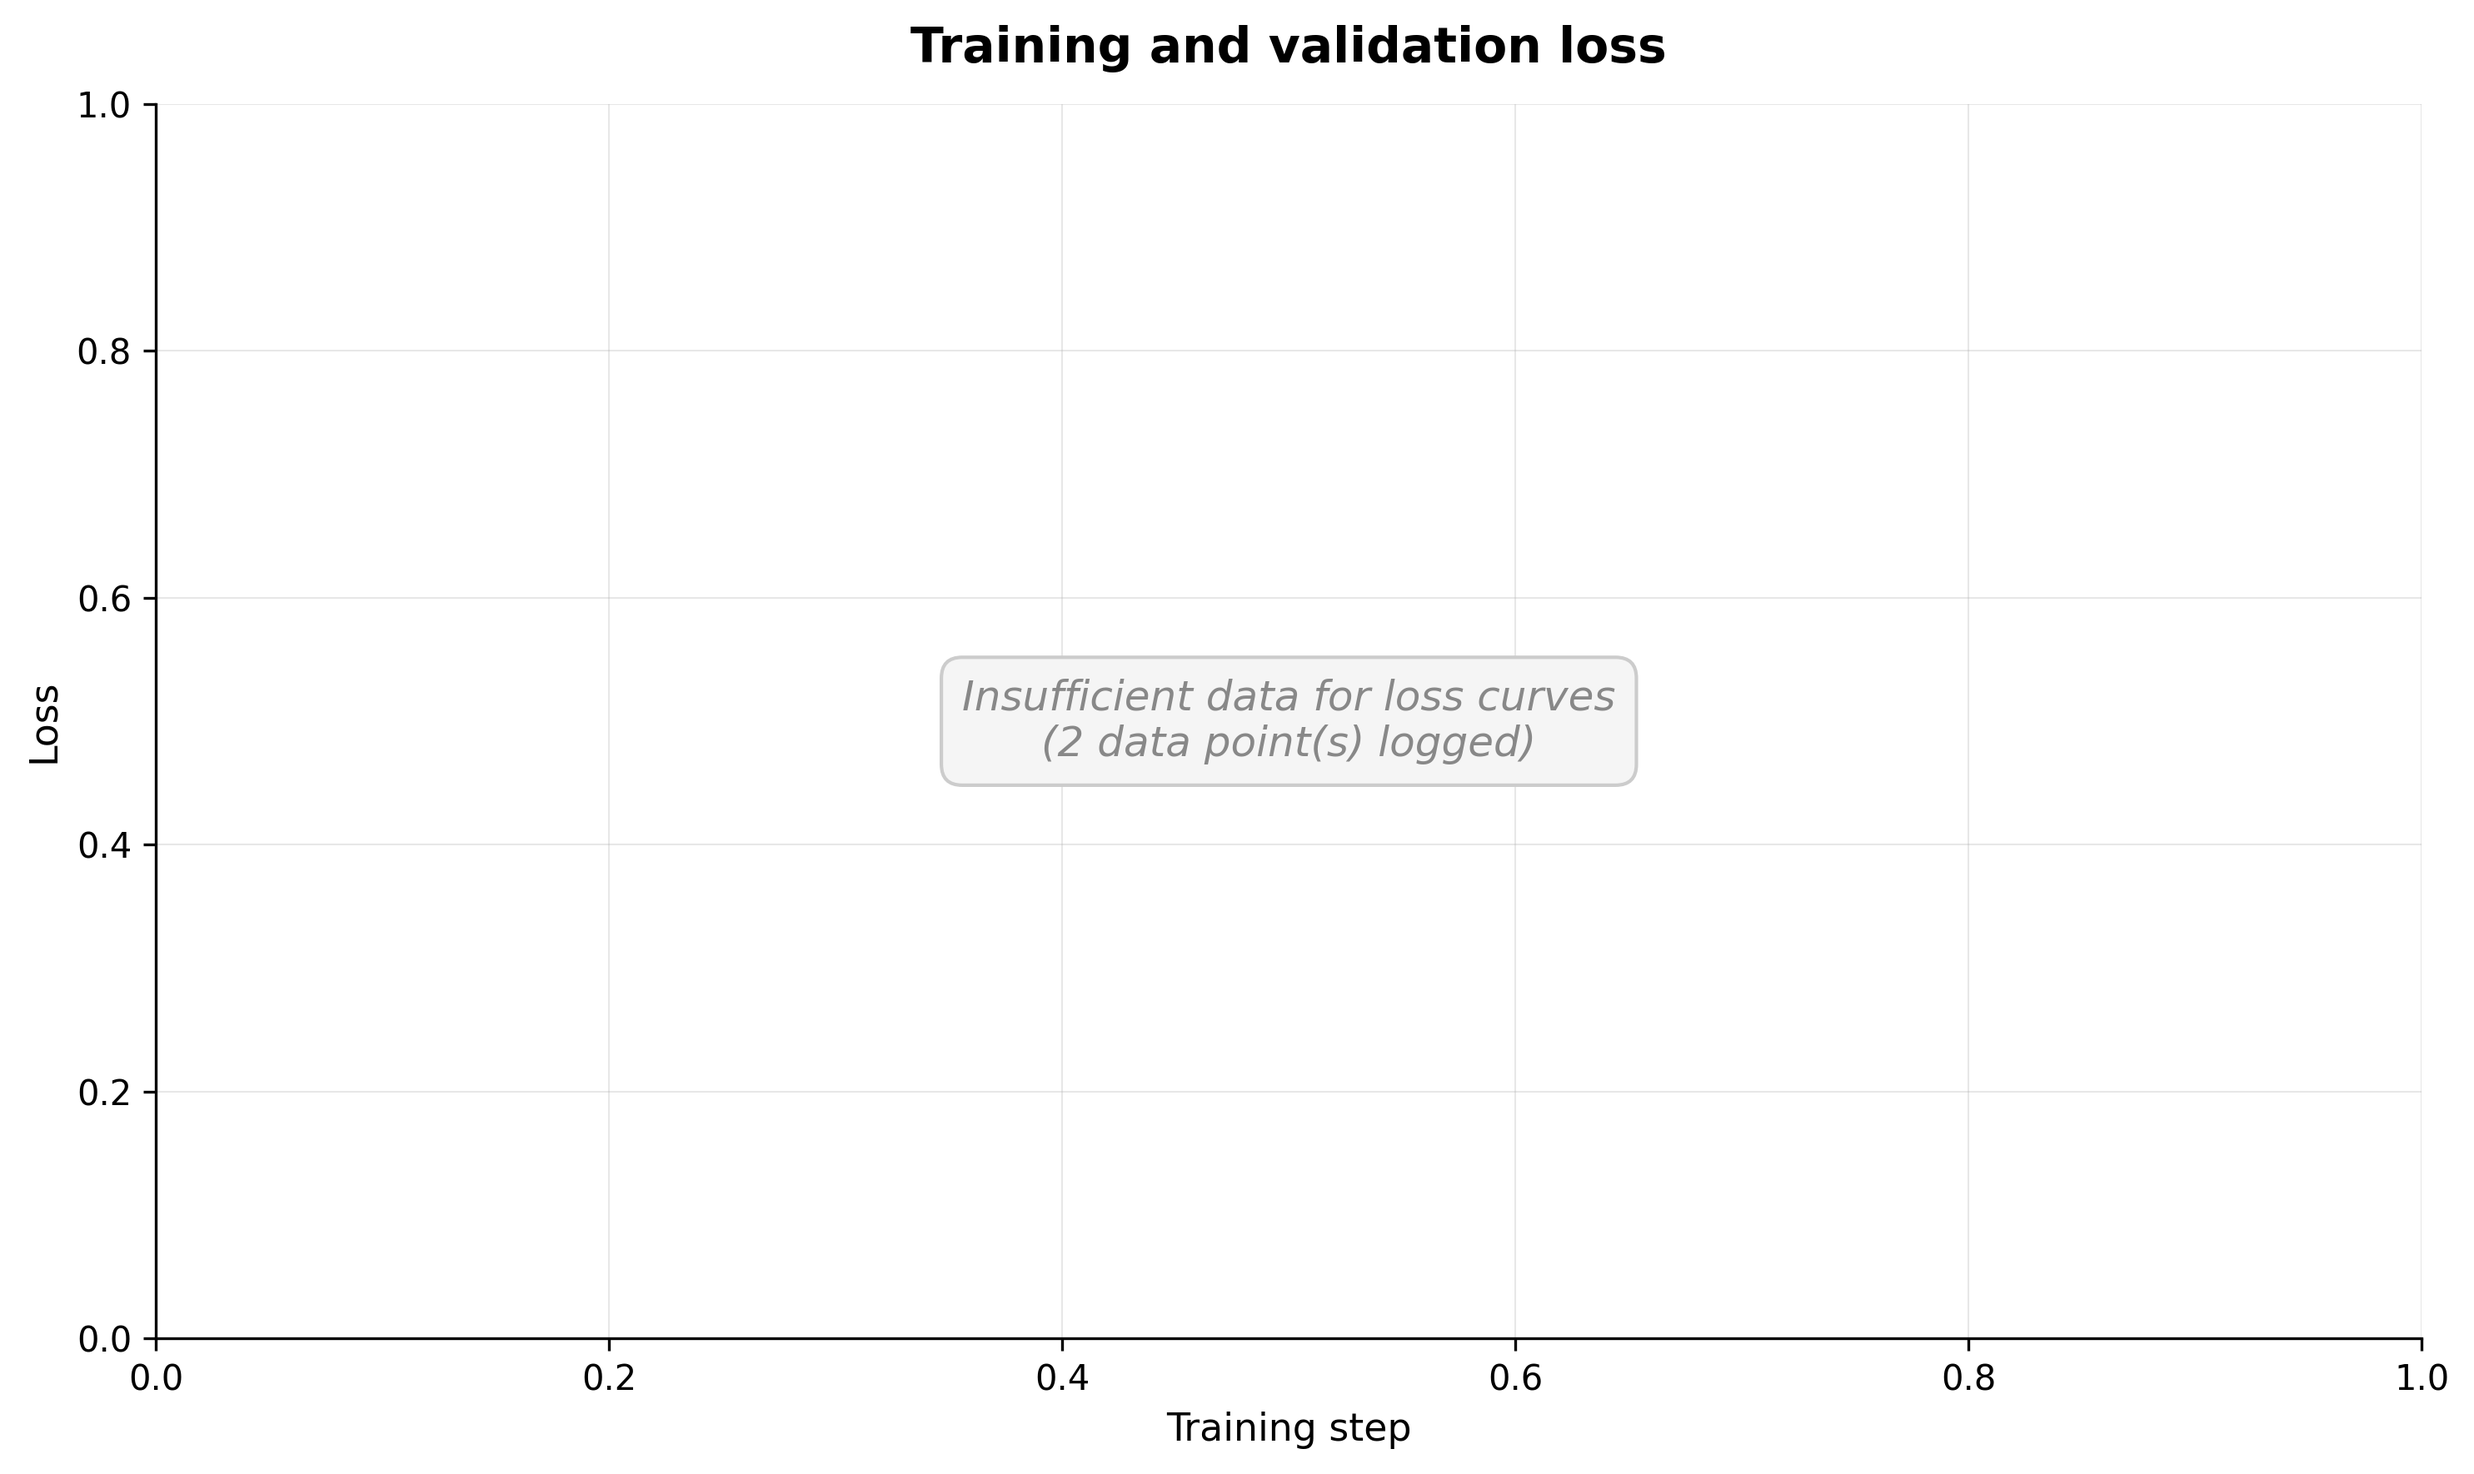
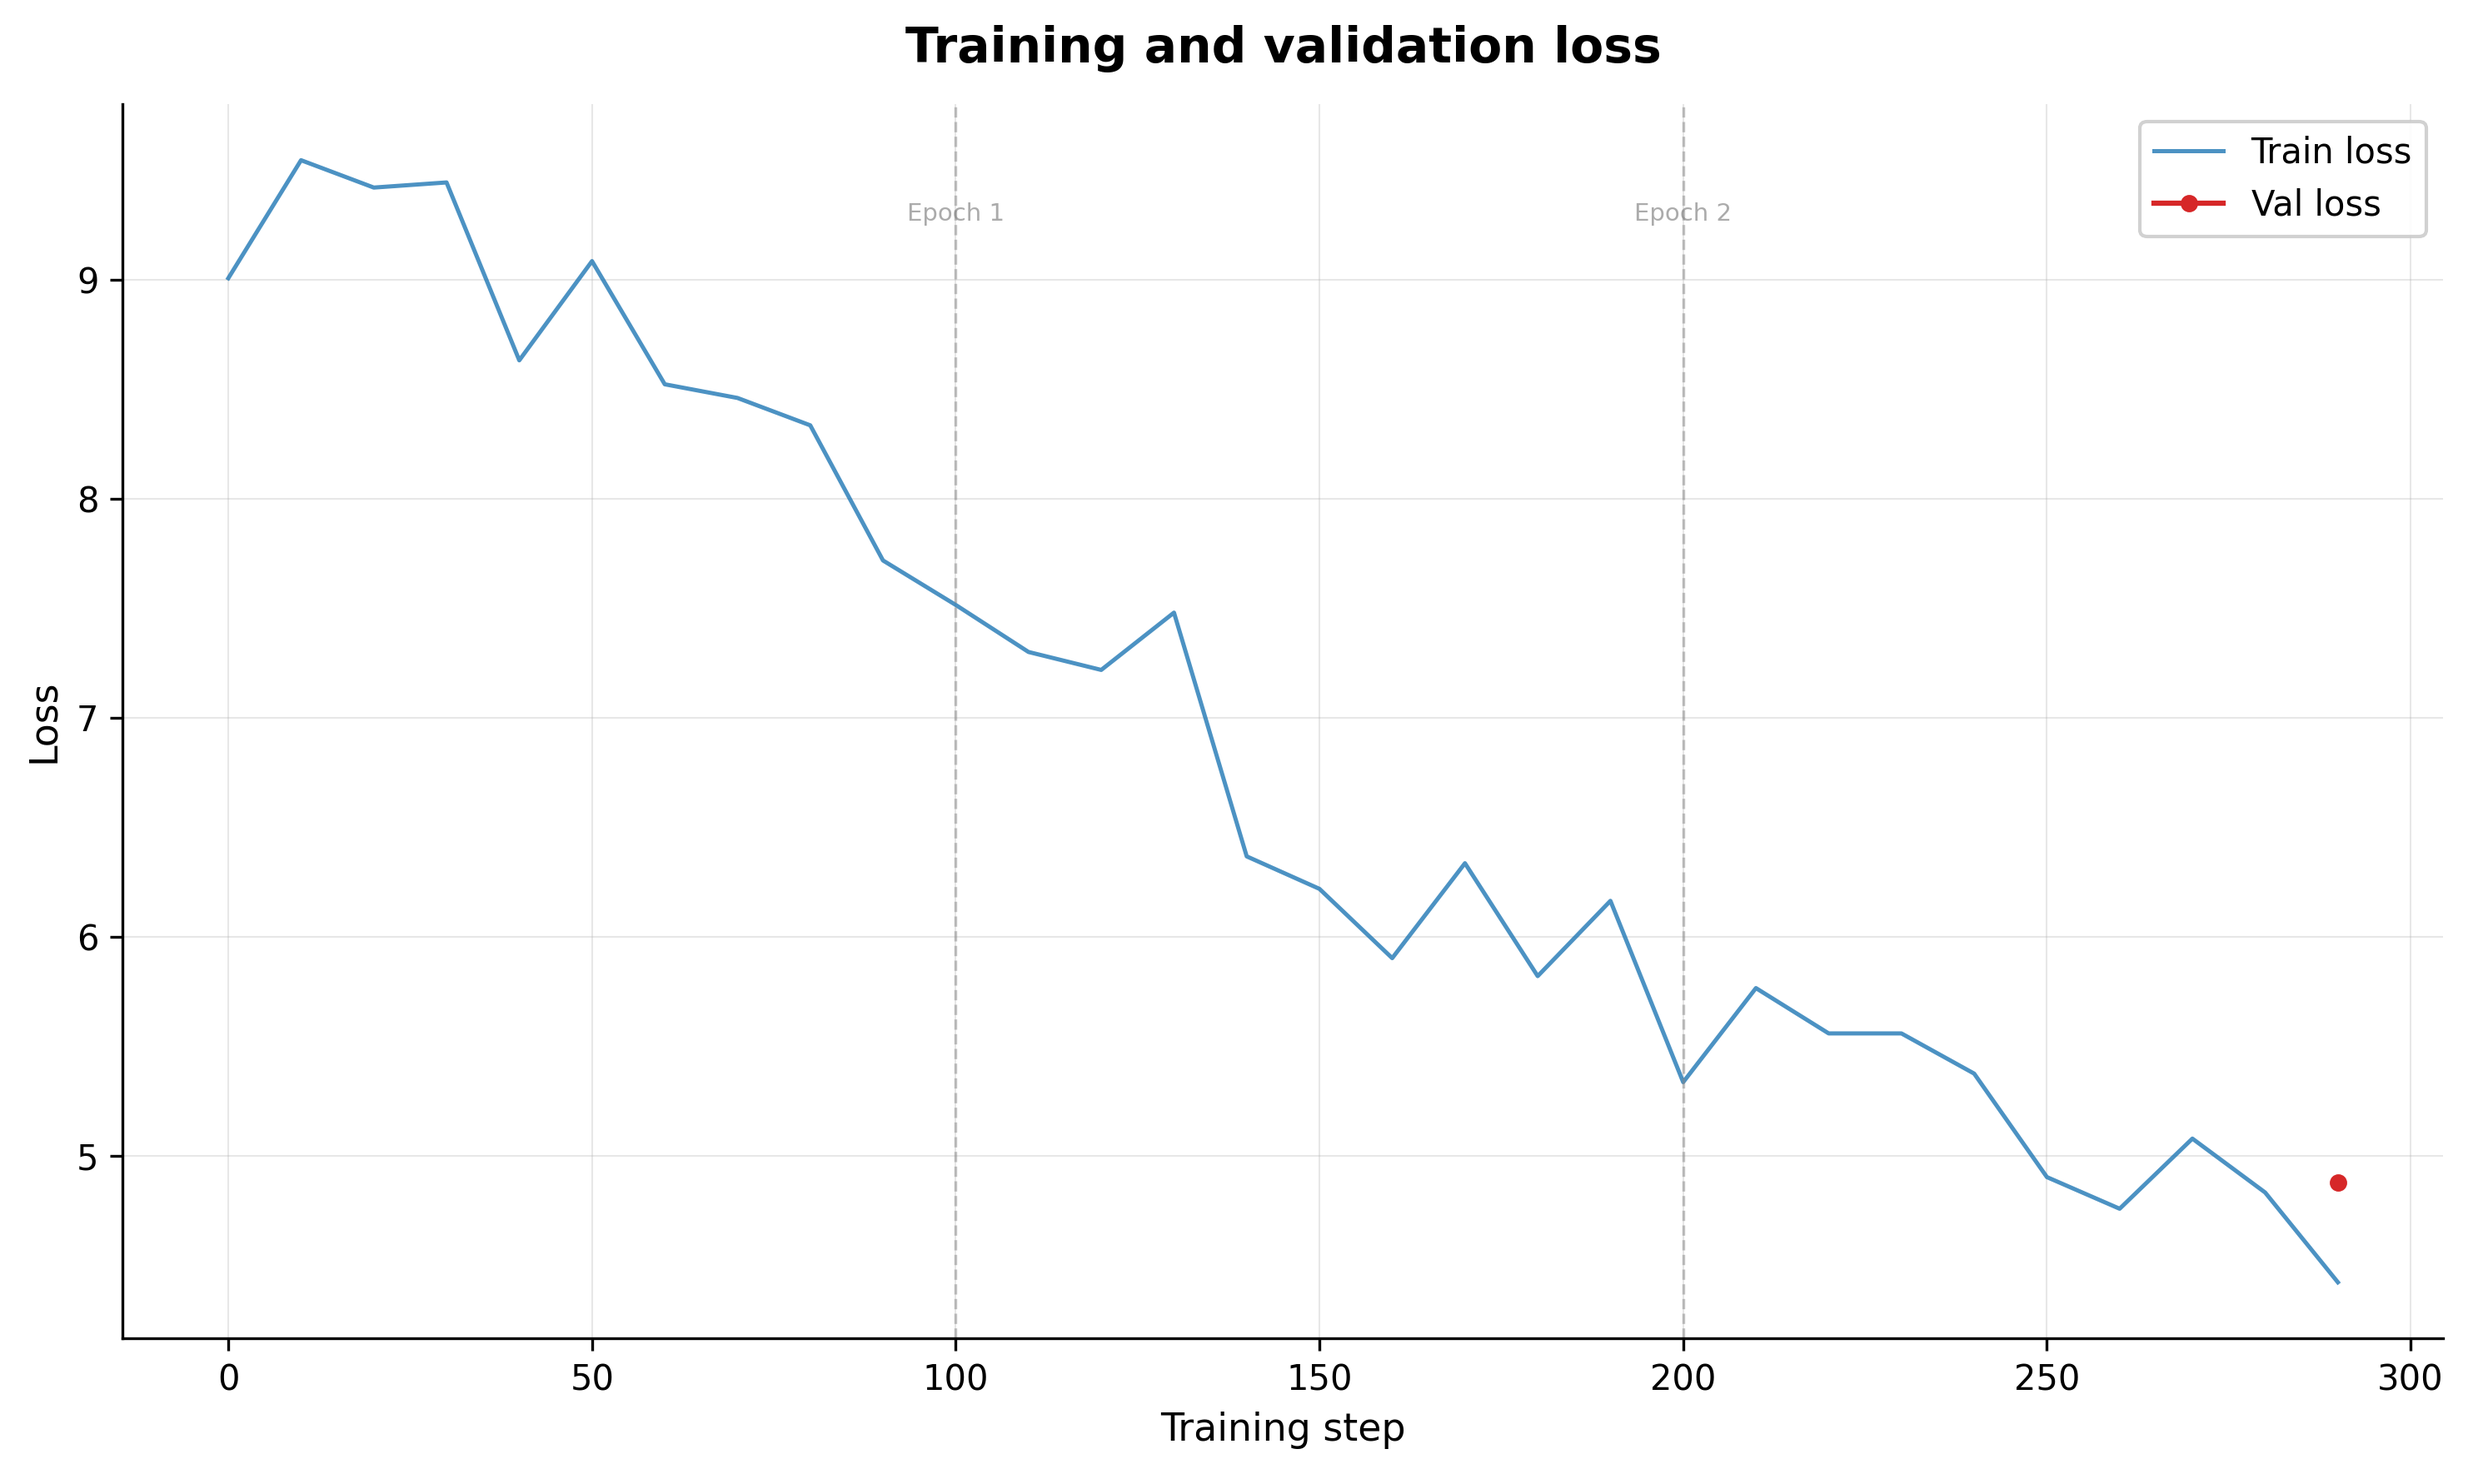
Run SFT production training and generate post-training analysis
- Train on 970-pair production dataset (776 train, 194 val) for 3 epochs
- Loss drops from 9.0 to 4.4 (training) and 4.9 (validation) over 291 steps
- Mild overfitting diagnosed (2.91% gap), perplexity drops from 13,900 to 114
- Regenerate all analysis plots and reports with production training data

diff --git a/results/sft/overfitting_report.md b/results/sft/overfitting_report.md
@@ -1,20 +1,18 @@
 # Training Analysis Report
 
 **Log:** sft_log.jsonl
-**Generated:** 2026-03-20 01:42 UTC
+**Generated:** 2026-03-20 15:35 UTC
 **Model:** 30L, 20H, 1600D, ctx=1024, dropout=0.1
-
-> **Note:** Only 1 training step(s) were logged. Most trend analyses and plots require multiple data points and will show limited information.
 
 ## Training overview
 
-The training ran for 1 logged step(s) across 1 epoch(s), taking approximately N/A of wall-clock time. The final training loss was 9.4855 and the final validation loss was 9.2643.
+The training ran for 290 logged step(s) across 3 epoch(s), taking approximately 6m 47s of wall-clock time. The final training loss was 4.7404 and the final validation loss was 4.8782.
 
 ## Loss curves
 
 ![Loss Curves](train_val_loss.png)
 
-Only one training step was logged (loss = 9.2578). This is insufficient data to analyze loss curve trends.
+Training loss decreased from 9.0078 to 4.4219 over 290 steps, a 50.9% reduction.
 
 ## Per-epoch breakdown
 
@@ -22,27 +20,27 @@ Metrics at each validation checkpoint, grouped by epoch.
 
 |  Epoch | Train Loss | Val Loss | Relative Gap | Train PPL | Val PPL | Classification |
 |--------|------------|----------|--------------|-----------|---------|----------------|
-|      2 |     9.4855 |   9.2643 |      -0.0233 |  13168.03 | 10554.67 | Underfitting   |
+|      2 |     4.7404 |   4.8782 |      +0.0291 |    114.48 |  131.39 | Mild overfitting |
 
 ## Perplexity analysis
 
 ![Perplexity Gap](perplexity_gap.png)
 
-Only one validation checkpoint was recorded. Train perplexity: 13168.03, validation perplexity: 10554.67. Multiple checkpoints are needed to analyze perplexity trends.
+Only one validation checkpoint was recorded. Train perplexity: 114.48, validation perplexity: 131.39. Multiple checkpoints are needed to analyze perplexity trends.
 
 ## Learning rate schedule
 
 ![LR Schedule](lr_schedule.png)
 
-The training used a WarmupCosineLR schedule with 1 warmup steps over 6 total steps. The minimum LR ratio was set to 0.0, meaning the learning rate decayed to 0.0 of its peak value by the end of training.
+The training used a WarmupCosineLR schedule with 50 warmup steps over 291 total steps. The minimum LR ratio was set to 0.0, meaning the learning rate decayed to 0.0 of its peak value by the end of training.
 
 ## Overfitting diagnosis
 
-**Classification: Underfitting**
+**Classification: Mild overfitting**
 
-The model appears to be underfitting. The validation loss (9.2643) is notably below the training loss (9.4855), with a relative gap of -0.0233 (-2.33%). This is unusual and typically indicates the model has not yet converged, or the validation set is easier than the training set.
+The model shows signs of mild overfitting. The validation loss (4.8782) exceeds the training loss (4.7404) by a relative gap of +0.0291 (+2.91%). While not severe, this suggests the model has begun memorizing training-specific patterns that do not generalize.
 
 ## Recommendations
 
-- The model has not fully converged. Consider training for additional epochs to allow the loss to stabilize.
-- If the learning rate schedule reaches its minimum before convergence, consider increasing the total training steps or raising the minimum LR ratio.
+- Consider increasing dropout (currently the primary regularization mechanism) to reduce overfitting.
+- Early stopping at step 290 (val loss 4.8782) would have produced the best-generalizing checkpoint.

diff --git a/results/sft/resource_report.md b/results/sft/resource_report.md
@@ -5,9 +5,9 @@ Summary of hardware resource utilization during training.
 | Metric              |    Peak |    Mean |     Min |
 |---------------------|---------|---------|---------|
 | VRAM (peak)         |  5206.0 |  5206.0 |  5206.0 |
-| CPU RAM             | 21696.0 | 21696.0 | 21696.0 |
-| GPU utilization     |     5.0 |     5.0 |     5.0 |
-| GPU temperature     |    36.0 |    36.0 |    36.0 |
-| Throughput          |  1330.9 |  1330.9 |  1330.9 |
+| CPU RAM             | 30315.0 | 29504.9 | 22498.0 |
+| GPU utilization     |   100.0 |    96.3 |     8.0 |
+| GPU temperature     |    76.0 |    66.3 |    34.0 |
+| Throughput          |  9708.2 |  9038.1 |  2353.3 |
 
-Statistics computed from 1 logged training steps.
+Statistics computed from 30 logged training steps.
